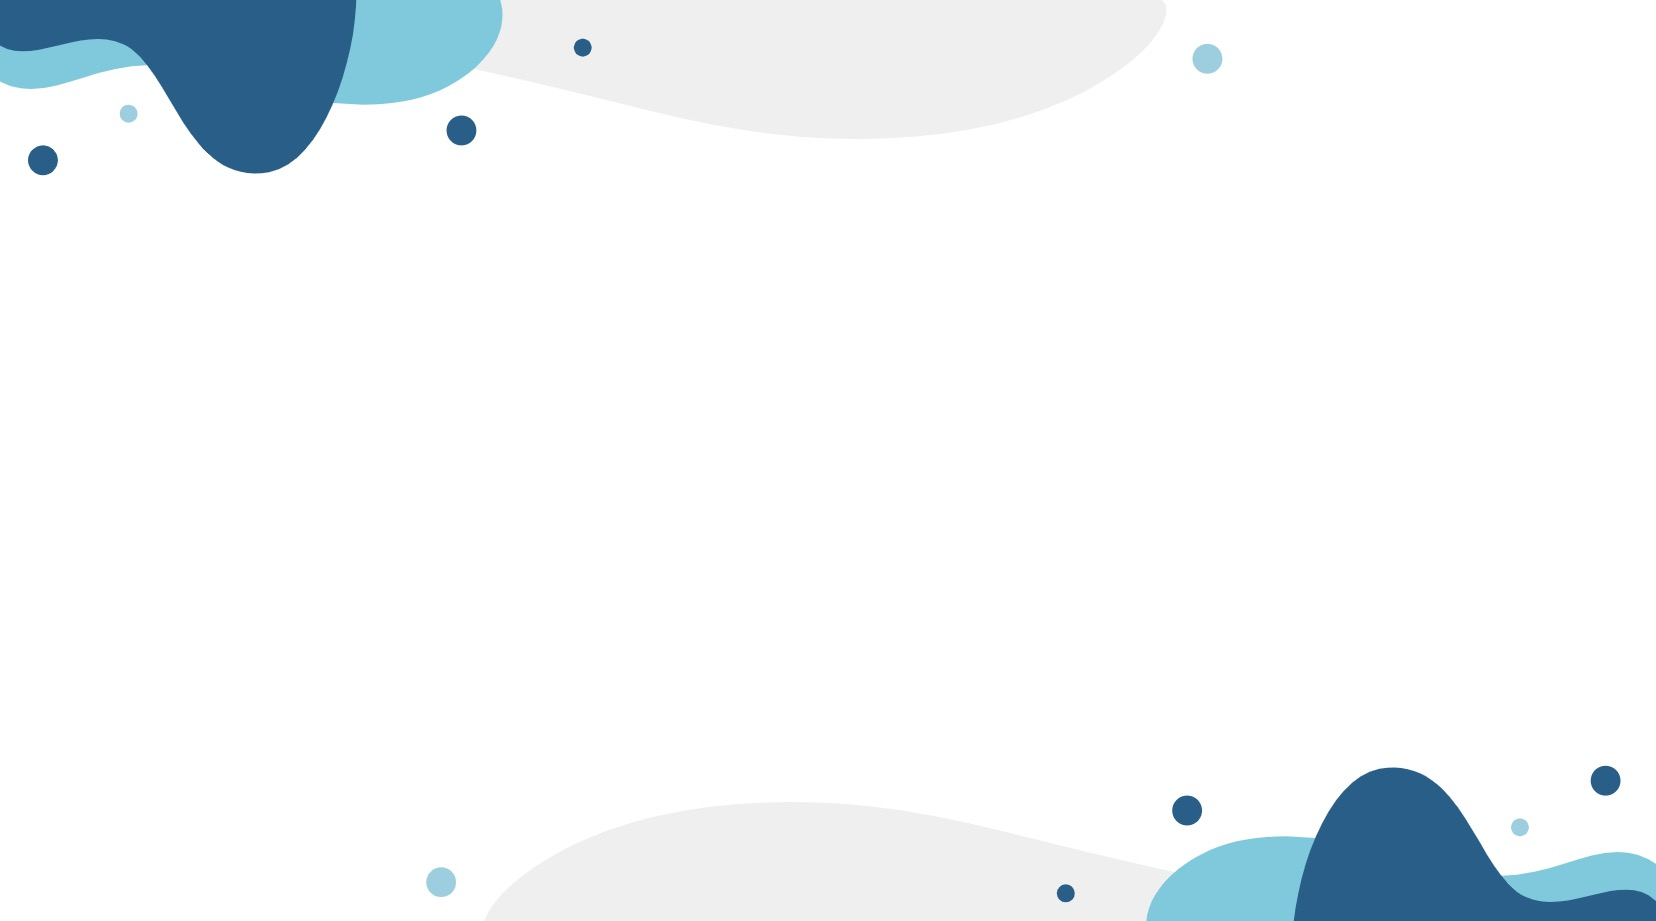
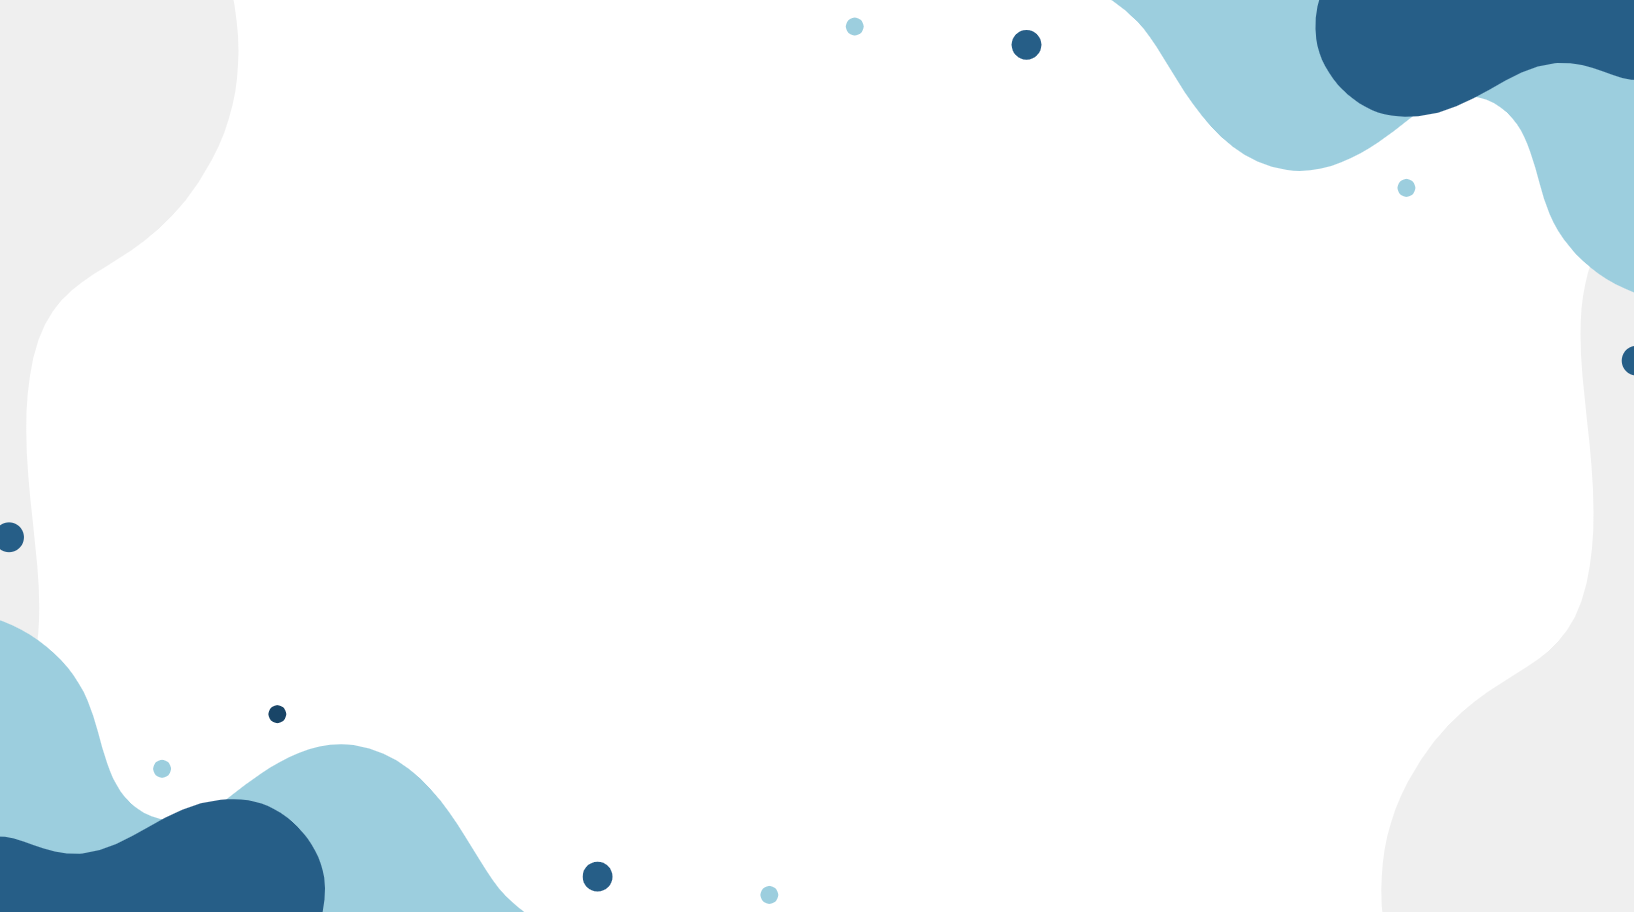
update repo

diff --git a/style.css b/style.css
@@ -1,7 +1,8 @@
 body {
   text-transform: uppercase; 
   font-family: 'Joti One', cursive;
-  background-image: url('bg2.png');
+  background-image: url('bg.png');
+  background-size: 100%;
   text-align: center;
 }
 h1 {

diff --git a/index.html b/index.html
@@ -28,6 +28,7 @@
     <body>
       <!-- HTML -->
       <br>
+      <br>
       <div class="container">
         <h1>TO-DO LIST</h1>
 
